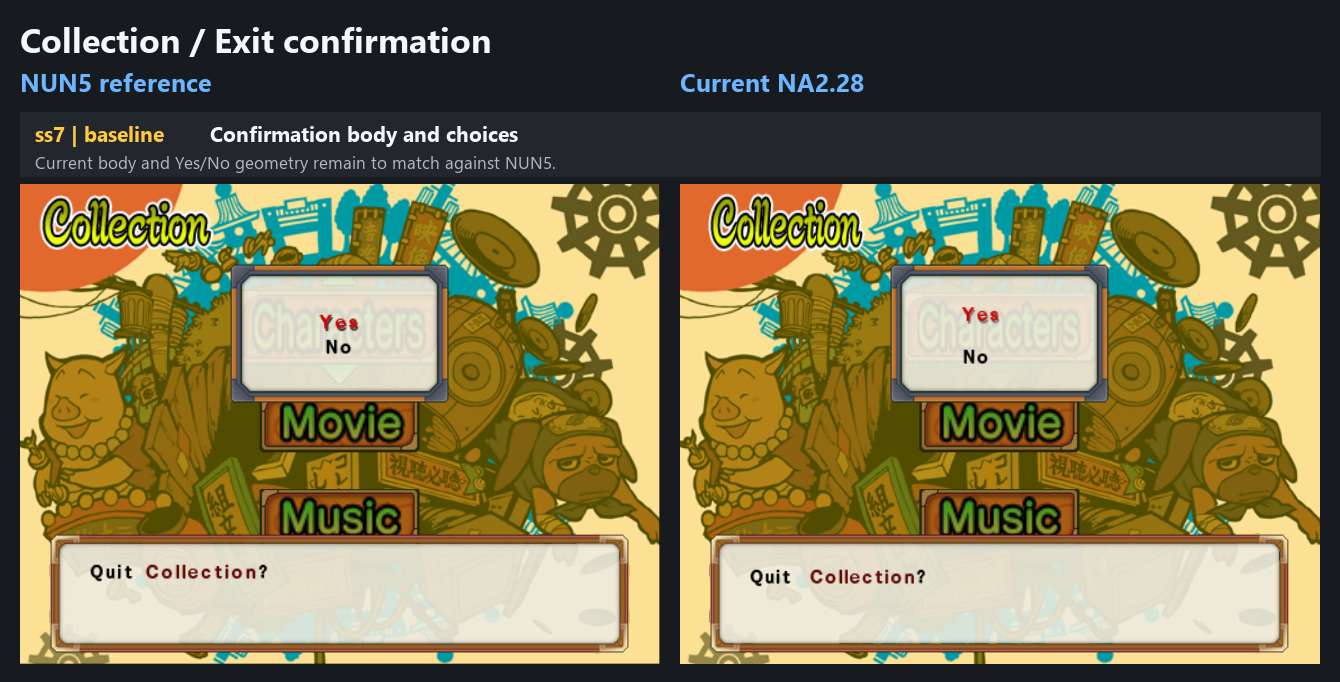
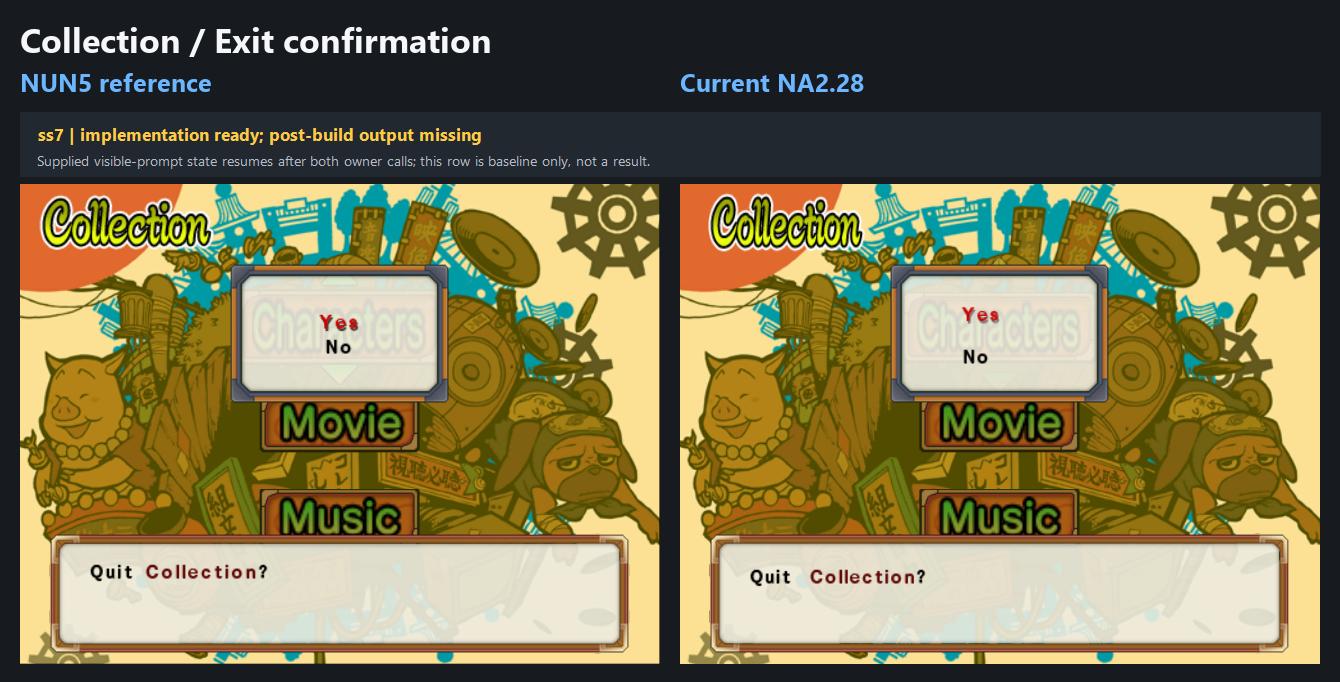
[Font] Implement Collection exit confirmation

Changed region(s): [[0.0306, 0.1848, 0.4896, 0.2463]]

diff --git a/scripts/research/localization/verify_font_renderer.py b/scripts/research/localization/verify_font_renderer.py
@@ -98,6 +98,7 @@ V2_SPECIAL_CONTROLS_BODY_CALLBACK = (
 V2_SPECIAL_CONTROLS_BODY_ADAPTER = (
     f"{V2_PREFIX}.special_controls_body_adapter"
 )
+V2_COLLECTION_BODY_ADAPTER = f"{V2_PREFIX}.collection_body_adapter"
 V2_NATIVE_MEASURE = f"{V2_PREFIX}.native_measure"
 V2_NATIVE_MEASURE_CALLBACK = f"{V2_PREFIX}.c.native_measure_callback"
 V2_WRAP_NATIVE = f"{V2_PREFIX}.wrap_native"
@@ -430,6 +431,7 @@ def build_v2_c_core() -> tuple[Fragment, ...]:
         "font_v2_wrap_native",
         "font_v2_quit_body_adapter",
         "font_v2_special_controls_body_adapter",
+        "font_v2_collection_body_adapter",
         "font_v2_practice_append",
         "font_v2_command_relationship_impl",
         "font_v2_command_icon_offset",
@@ -487,6 +489,9 @@ def build_v2_c_core() -> tuple[Fragment, ...]:
         extracted.symbols[
             "font_v2_special_controls_body_adapter"
         ].symbol: V2_SPECIAL_CONTROLS_BODY_ADAPTER,
+        extracted.symbols["font_v2_collection_body_adapter"].symbol: (
+            V2_COLLECTION_BODY_ADAPTER
+        ),
         extracted.symbols["font_v2_practice_append"].symbol: (
             V2_PRACTICE_APPEND
         ),
@@ -593,6 +598,7 @@ def build_v2_c_core() -> tuple[Fragment, ...]:
         f"{V2_PREFIX}.c.wrapped_body_common",
         V2_QUIT_BODY_ADAPTER,
         V2_SPECIAL_CONTROLS_BODY_ADAPTER,
+        V2_COLLECTION_BODY_ADAPTER,
         V2_PRACTICE_APPEND,
         V2_COMMAND_RELATIONSHIP_IMPL,
         V2_COMMAND_ICON_OFFSET,

diff --git a/na228_builder/features/localization/runtime_injector/sources/font_v2_core.c b/na228_builder/features/localization/runtime_injector/sources/font_v2_core.c
@@ -106,6 +106,12 @@ typedef signed int s32;
 #define FONT_SPECIAL_BODY_BOX_HEIGHT 60u
 #define FONT_SPECIAL_BODY_LINE_HEIGHT 20.0f
 #define FONT_SPECIAL_BODY_LINE_LIMIT 2u
+#define FONT_COLLECTION_BODY_BOX_X 24.0f
+#define FONT_COLLECTION_BODY_BOX_Y 12.0f
+#define FONT_COLLECTION_BODY_BOX_WIDTH 400u
+#define FONT_COLLECTION_BODY_BOX_HEIGHT 60u
+#define FONT_COLLECTION_BODY_LINE_HEIGHT 20.0f
+#define FONT_COLLECTION_BODY_LINE_LIMIT 2u
 #define FONT_BODY_BUFFER_SIZE 0x100u
 #define FONT_PRACTICE_ICON_TABLE_ADDRESS 0x008D14C0u
 #define FONT_PRACTICE_TEXT_TABLE_ADDRESS 0x008BD510u
@@ -1178,6 +1184,26 @@ int font_v2_special_controls_body_adapter(
         FONT_SPECIAL_BODY_BOX_HEIGHT,
         FONT_SPECIAL_BODY_LINE_HEIGHT,
         FONT_SPECIAL_BODY_LINE_LIMIT,
+        (u32)font_v2_special_controls_body_callback
+    );
+}
+
+FONT_V2_SECTION(".text.font_v2_collection_body_adapter")
+int font_v2_collection_body_adapter(
+    u32 arg0,
+    const u8 *text,
+    u32 arg2
+) {
+    return font_v2_wrapped_body_common(
+        arg0,
+        text,
+        arg2,
+        FONT_COLLECTION_BODY_BOX_X,
+        FONT_COLLECTION_BODY_BOX_Y,
+        FONT_COLLECTION_BODY_BOX_WIDTH,
+        FONT_COLLECTION_BODY_BOX_HEIGHT,
+        FONT_COLLECTION_BODY_LINE_HEIGHT,
+        FONT_COLLECTION_BODY_LINE_LIMIT,
         (u32)font_v2_special_controls_body_callback
     );
 }

diff --git a/docs/knowledge/localization/font/README.md b/docs/knowledge/localization/font/README.md
@@ -1041,7 +1041,53 @@ existing C mapping—Yes `(64.5,31.5)`, No `(68.5,49)`—and visually matched
 NUN5 while leaving the body unchanged. No new formula or assembly payload is
 needed. The user verified the normal-build Mode Select result on 2026-07-29.
 The layer is therefore **runtime-proven** with verified confidence; the
-separate Collection confirmation remains unfinished epic work.
+separate Collection confirmation uses a different ETC caller family.
+
+### Collection exit-confirmation body and choice list
+
+The replacement 2026-07-30 ss7 pair isolates the Collection exit prompt in
+clean NA2 `PRG/ETC.BIN` (200,448 bytes, SHA-256
[1 lines of base64/hex data omitted]
+The retained Ghidra export identifies `FUN_006C6520`, called from
+`0x006D879C`, as the bounded owner:
+
+- clean address `0x006C6540`, file `0x12680`, calls the ordinary body renderer
+  for object `+4`; its eight-byte guard is `6C090E0C00000000`;
+- clean address `0x006C6560`, file `0x126A0`, calls the complete choice-list
+  renderer for object `+8`; its eight-byte guard is
+  `800D0E0C00000000`.
+
+The supplied ss7 savestate restores the MWo3 overlay with the 0x40-byte runtime
+header represented in live memory, so those same guarded instructions appear
+at live `0x006C6580` and `0x006C65A0`. This live `+0x40` relation is specific
+to exact-guarded runtime conversion; canonical file edits continue to use
+`0x12680` and `0x126A0`.
+
+Normalized 640-by-480 captures measure Current's body ink at Y `386..401`
+versus NUN5 `381..396`, with the same X origin. Current's selected Yes is at
+X `282..317`, Y `123..136`, versus NUN5 X `299..336`, Y `131..144`;
+Current's No is at X `284..306`, Y `166..178`, versus NUN5 X `306..334`,
+Y `156..168`. Draw telemetry identifies the native Collection inputs as Yes
+text `0x00604570` at local `(50,24)` and No text `0x00604568` at local
+`(50,56)`. Their Y values are exactly the source keys already handled by the
+accepted scoped mapper, whose retained targets are Yes `(64.5,31.5)` and No
+`(68.5,49)`. Collection therefore needs no new choice formula.
+
+The bounded implementation adds one C body adapter using the existing wrapped
+body primitive with local `(24,12)`, a 400-by-60 box, 20-unit line height, and
+a two-line limit. It redirects only the two clean ETC calls above: the body to
+that adapter and the complete list to
+`localization.font.v2.quit_choices_scope`. Every other ETC body/list caller and
+every ordinary Yes/No list remain native.
+
+The exact task-owned overlay guards, C compilation, relocation, and fragment
+verification pass. The supplied ss7 state was captured after both owner calls:
+after state reload and candidate application, the selected/unselected renderer
+hooks ran with `quit_active=0`, while the body and scope owner calls did not
+re-execute. It therefore cannot validate the shipped caller behavior or supply
+a truthful post-change result grid. Clean-construction runtime validation and
+user acceptance remain pending. Confidence is **high** for the bounded caller
+identity and target geometry; status is **approved for test**.
 
 ### Character Select modal selected row, return body, and choice list
 

diff --git a/docs/workstreams/font/epics/ss2-6-layout/README.md b/docs/workstreams/font/epics/ss2-6-layout/README.md
@@ -12,10 +12,14 @@ case.
 ## Execution state
 
 - Mode: Continuous.
-- Current subtask: Priority 4 — ss7 Collection exit confirmation.
-- Pending grid: none.
-- Next action: isolate and implement the Collection-only confirmation body and
-  choice geometry from the replacement ss7 pair.
+- Current subtask: Priority 4 — ss7 Collection exit confirmation, awaiting a
+  fresh post-build frame from clean modal construction.
+- Pending grid: missing: a fresh NA2.28 ss7 screenshot or savestate created
+  after entering the Collection exit confirmation on a build containing the
+  Priority 4 patch.
+- Next action: stop after Priority 4 as explicitly requested. Do not start
+  Priority 5. When the missing post-build ss7 input is supplied, compose and
+  visibly deliver the Priority 4 result grid.
 
 ## Scope and evidence
 
@@ -85,8 +89,18 @@ case.
 
 ### Priority 4 — ss7: Exit confirmation
 
-- State: matched baseline captured; not implemented.
-- Remaining defect: confirmation body and choice geometry remain to match.
+- State: bounded C/file-backed implementation is ready and its exact guards,
+  compilation, relocation, and fragment reconstruction are agent-validated;
+  clean-construction runtime output and user acceptance remain pending.
+- Result design: route only ETC body object `+4` through the existing wrapped
+  body primitive at local `(24,12)` in a 400-by-60 box, and scope only choice
+  object `+8` through the accepted Yes/No mapper. Native Collection inputs
+  `(50,24)` and `(50,56)` already match that mapper's source keys.
+- Validation limitation: the supplied visible-prompt ss7 state resumes after
+  both owner calls. Its baseline frame is retained below, but it cannot produce
+  the required post-change result or validate clean modal construction.
+- Remaining action: build the patch, enter the Collection exit prompt normally,
+  and supply one fresh screenshot or savestate for the final result grid.
 
 ![Priority 4 Collection confirmation baseline](4-collection-confirmation.png)
 

diff --git a/na228_builder/features/localization/README.md b/na228_builder/features/localization/README.md
@@ -1874,8 +1874,20 @@ layer therefore redirects only the second call at boot-ELF file `0x285E98`
 exact-guarded converted remade ss1 state centers Yes/No with NUN5 row spacing
 while leaving the already-matching body unchanged. The user verified the
 normal-build Mode Select result on 2026-07-29, so the layer is
-`runtime_proven`. The separate Collection confirmation remains unfinished
-Font epic work.
+`runtime_proven`.
+
+The separate `font_layout_collection_confirmation` layer owns exactly two
+clean ETC calls in `FUN_006C6520`. File `0x12680` routes the body object at
+`+4` through `localization.font.v2.collection_body_adapter`, which reuses the
+existing wrapped-body primitive at local `(24,12)` inside a 400-by-60,
+two-line box. File `0x126A0` scopes only the complete choice object at `+8`
+through `localization.font.v2.quit_choices_scope`. Collection's native Yes/No
+source Y values are the accepted mapper's existing 24/56 keys, so no new
+choice formula or broad text-pointer hook is added. Every other ETC body/list
+caller remains native. The exact guards, C compilation, and fragment
+verification pass; clean-construction runtime validation and user acceptance
+remain pending because the supplied visible-prompt ss7 state resumes after
+both owner calls.
 
 The `font_layout_character_select_modal` layer now owns three exact main-ELF
 callers rather than broad modal behavior. File `0x2BC984` routes only the
